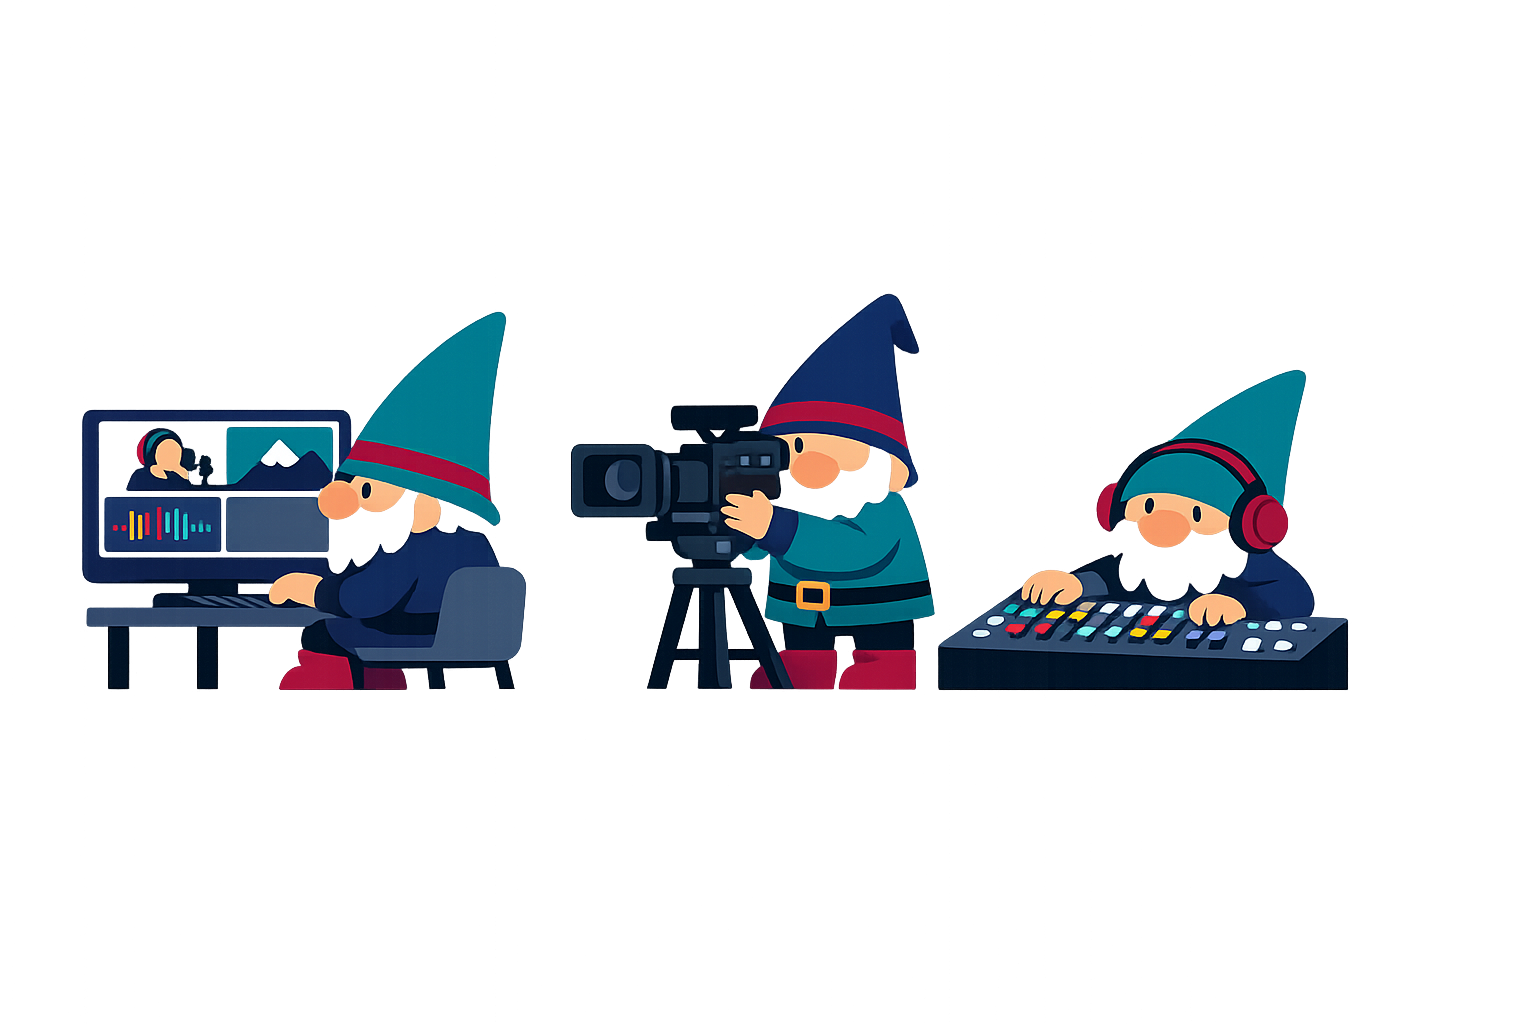
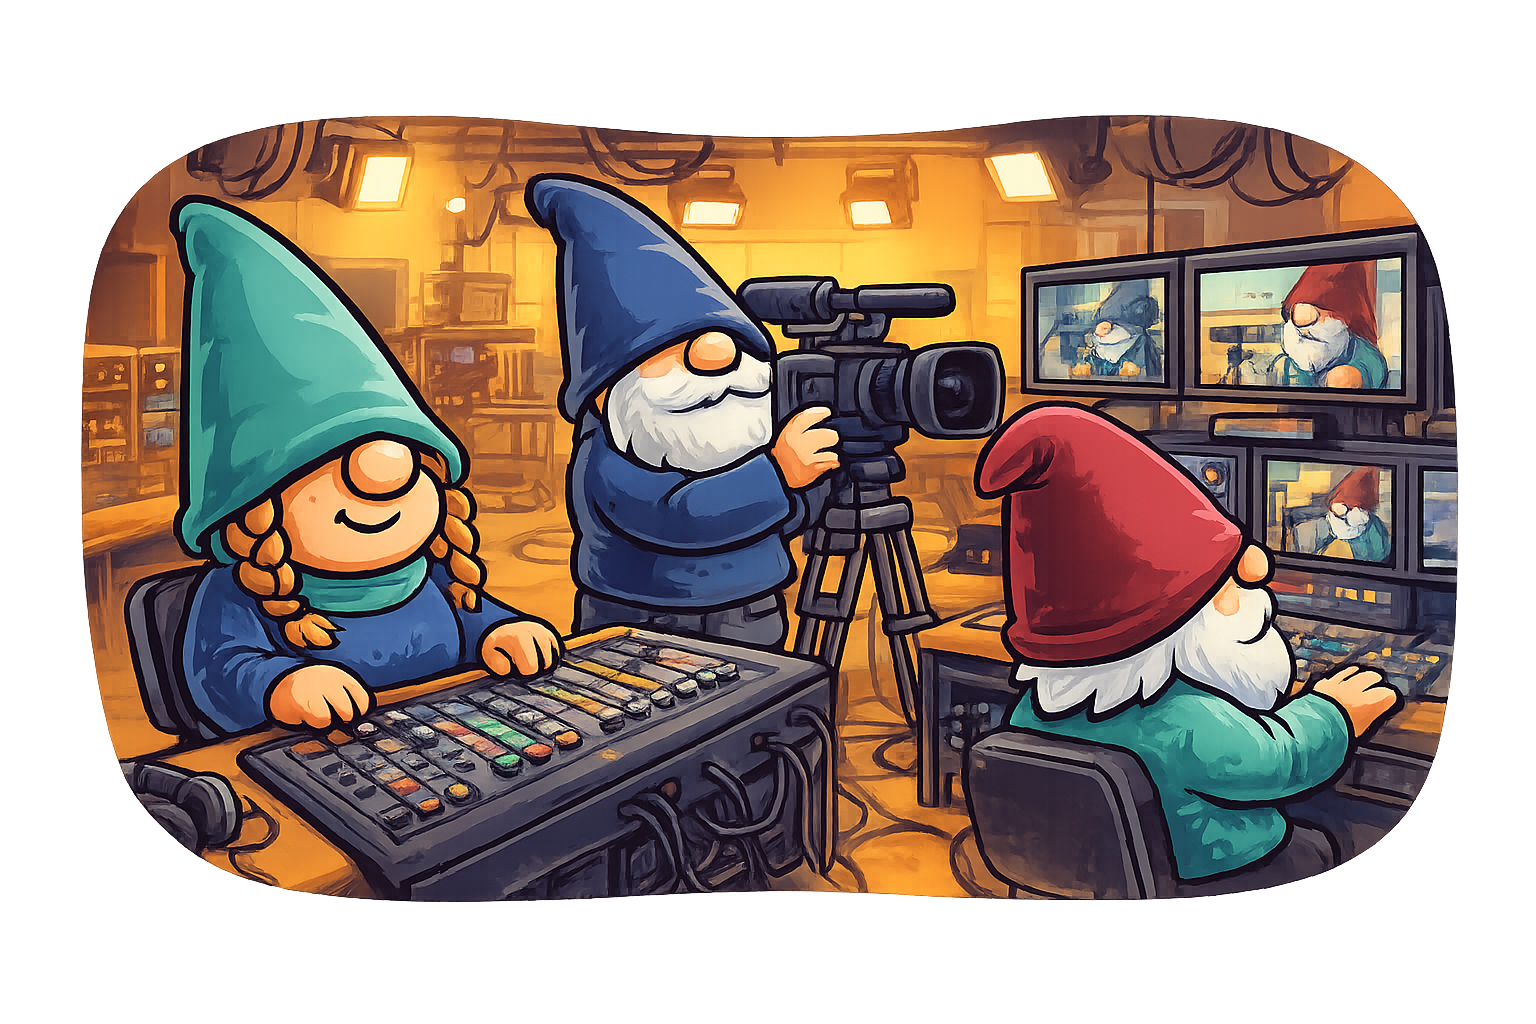
Fix gnomes: full-scene crossfade. Fix final panels: crop real hosts from illustration

diff --git a/docs/overrides/home.html b/docs/overrides/home.html
@@ -48,17 +48,13 @@
    ═════════════════════════════════════════════════════════ */
 #l2 {
   position: absolute;
-  bottom: -10%;
-  left: -4%; right: -4%;
-  height: 75%;
+  inset: -4% -2%;
   background-image: url('{{ "assets/imagery/layer2-gnomes.png" | url }}');
-  background-size: contain;
-  background-position: center bottom;
-  background-repeat: no-repeat;
+  background-size: cover;
+  background-position: center center;
   z-index: 3;
-  will-change: transform, opacity;
+  will-change: opacity;
   opacity: 0;
-  transform: translateY(60px);
 }
 
 /* ════════════════════════════════════════════════════════════
@@ -91,41 +87,19 @@
   transform: translateY(20px) scale(0.96);
 }
 
-/* panel backgrounds — illustrated gradient portraits */
-.fp--teal { background: linear-gradient(160deg, #0a2535 0%, #0d3535 60%, #0a2020 100%); }
-.fp--navy { background: linear-gradient(160deg, #0d1830 0%, #1a2040 60%, #0a1020 100%); }
-
-/* stylised person silhouette */
-.fp-person {
-  position: absolute;
-  bottom: 44px;
-  left: 50%; transform: translateX(-50%);
-  width: 55%;
-  height: 78%;
+/* panel backgrounds — crop the real host/guest illustration */
+.fp--teal {
+  background-image: url('{{ "assets/imagery/layer1-hosts.png" | url }}');
+  background-size: 260%;
+  background-position: 18% 35%;
+}
+.fp--navy {
+  background-image: url('{{ "assets/imagery/layer1-hosts.png" | url }}');
+  background-size: 260%;
+  background-position: 82% 35%;
 }
 
-.fp--teal .fp-person {
-  background: radial-gradient(ellipse at 50% 25%, #1a5555 0%, #0d3030 55%, transparent 80%);
-  border-radius: 50% 50% 0 0 / 55% 55% 0 0;
-}
-
-.fp--navy .fp-person {
-  background: radial-gradient(ellipse at 50% 25%, #1a2f5a 0%, #0d1835 55%, transparent 80%);
-  border-radius: 50% 50% 0 0 / 55% 55% 0 0;
-}
-
-/* head circle */
-.fp-head {
-  position: absolute;
-  top: 0; left: 50%;
-  transform: translateX(-50%);
-  width: 38%;
-  aspect-ratio: 1;
-  border-radius: 50%;
-}
-
-.fp--teal .fp-head { background: radial-gradient(circle at 40% 35%, #2a7070, #0d4040); }
-.fp--navy .fp-head { background: radial-gradient(circle at 40% 35%, #2a3f70, #0d1840); }
+/* no separate person elements needed — bg image handles it */
 
 /* corner accent chips */
 .fp-chip {
@@ -384,7 +358,6 @@
     {# ── L3: Final Produced Frame (pure CSS) ── #}
     <div id="l3">
       <div class="fp fp--teal">
-        <div class="fp-person"><div class="fp-head"></div></div>
         <div class="fp-chip fp-chip--tl"></div>
         <div class="fp-chip fp-chip--br"></div>
         <div class="fp-dots">
@@ -407,7 +380,6 @@
       </div>
 
       <div class="fp fp--navy">
-        <div class="fp-person"><div class="fp-head"></div></div>
         <div class="fp-chip fp-chip--tl"></div>
         <div class="fp-chip fp-chip--br"></div>
         <div class="fp-dots">
@@ -492,10 +464,9 @@
     var scale1 = 1.18 - ss(0, 0.70, p) * 0.18;   /* 1.18 → 1.0 */
     l1.style.transform = 'scale(' + scale1 + ')';
 
-    /* ── L2: gnomes slide up ── */
-    var l2p = ss(0.25, 0.60, p);
-    l2.style.opacity   = l2p;
-    l2.style.transform = 'translateY(' + ((1 - l2p) * 80) + 'px)';
+    /* ── L2: gnomes crossfade in ── */
+    var l2p = ss(0.25, 0.58, p);
+    l2.style.opacity = l2p;
 
     /* ── Text fades out ── */
     var tp = 1 - ss(0.22, 0.48, p);